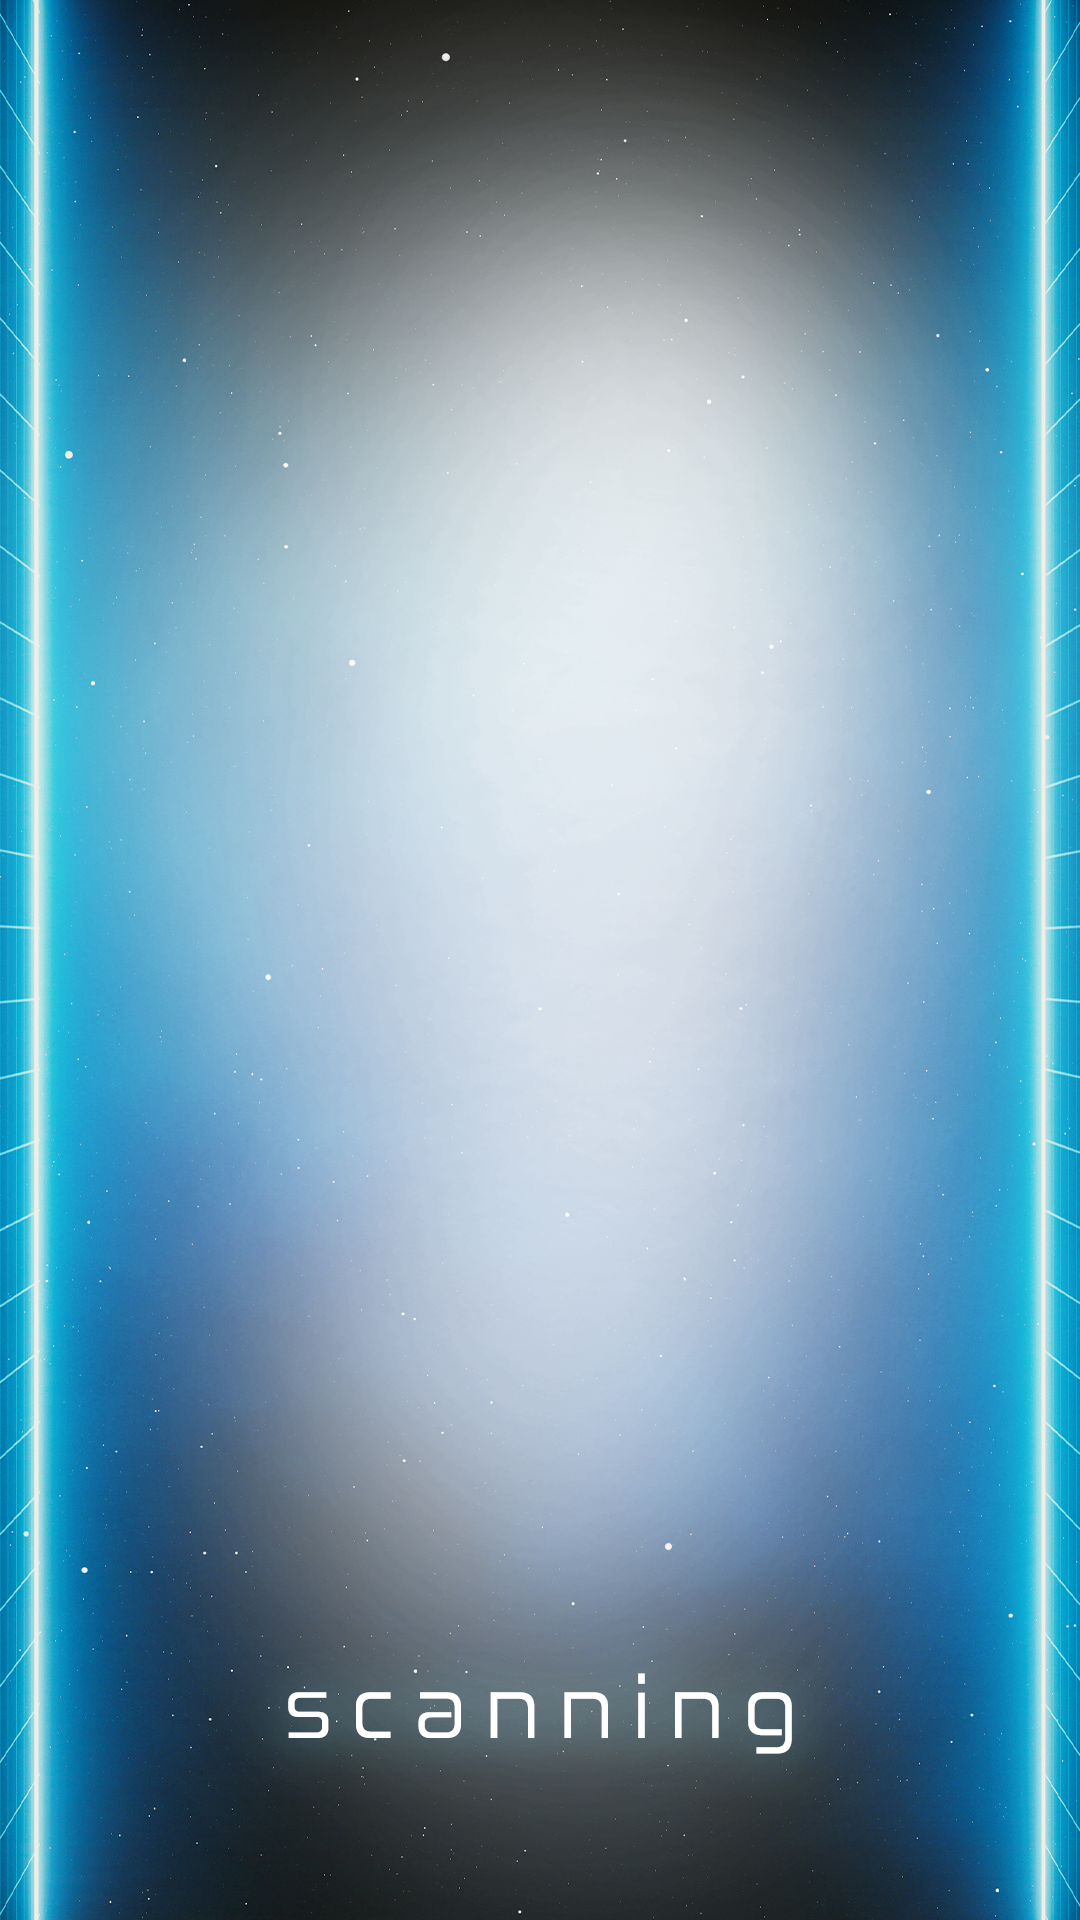
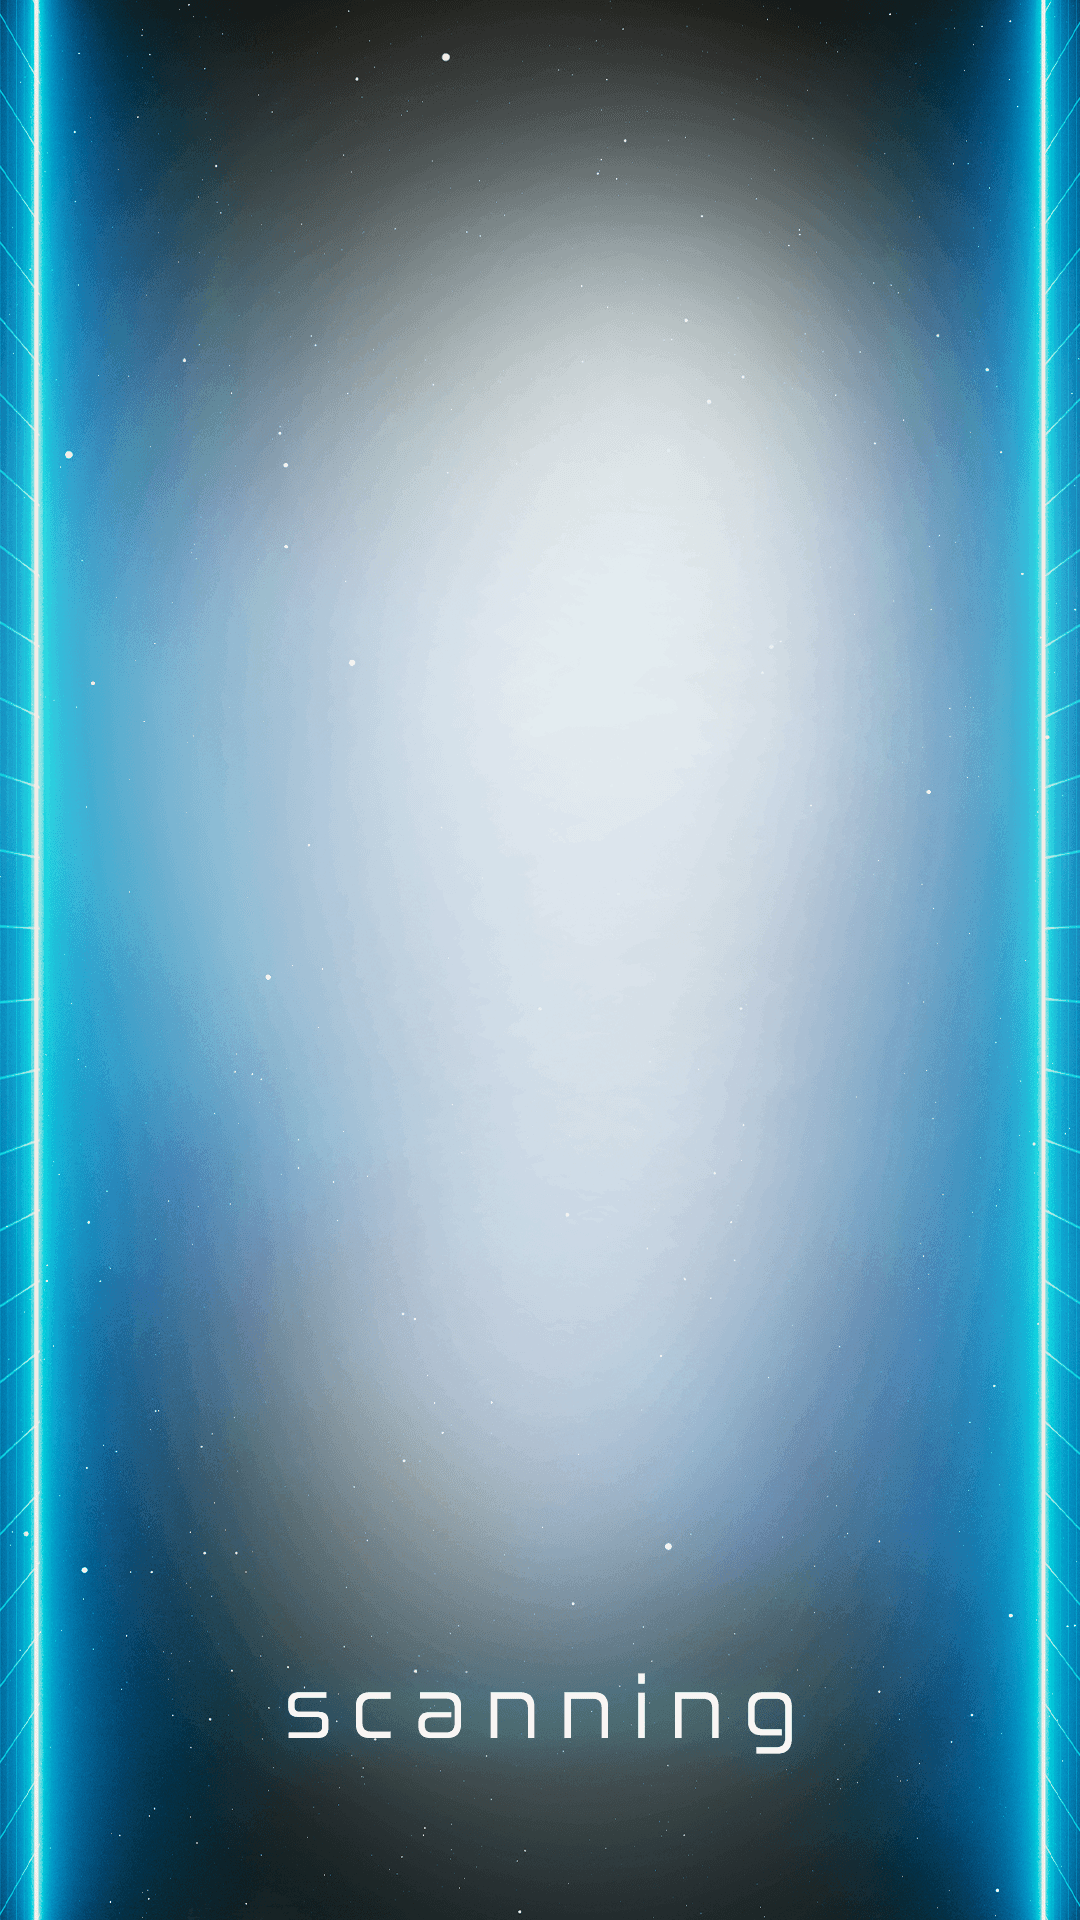
:bento: add assets
add compressed overlay images

Changed region(s): [[0.0, 0.0, 0.0611, 1.0], [0.9472, 0.0, 1.0, 1.0]]

diff --git a/script.js b/script.js
@@ -52,7 +52,7 @@ async function startVideo() {
         });
         drawBox.draw(canvas);
         if (result.distance > 0.35 && result.label == "Götz") {
-          overlay.src = "overlay/Facescan_02.png";
+          overlay.src = "overlay/Facescan_04.png";
           console.log(result.distance);
         } else if (result.distance > 0.4 && result.label !== "unknown") {
           overlay.src = "overlay/Facescan_03.png";
